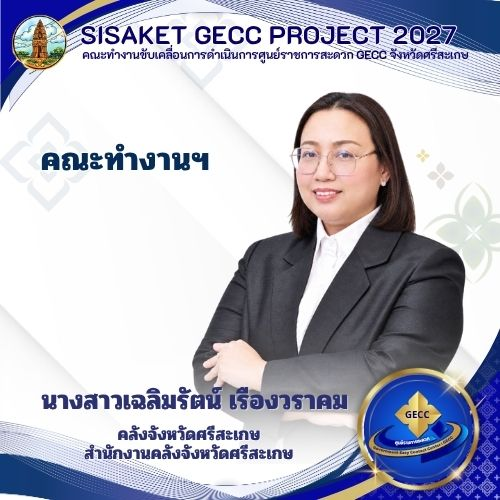
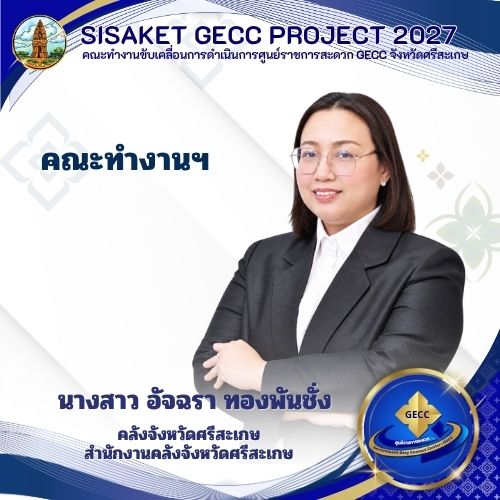
Update committee member 8 photo to นางสาวอัจฉรา ทองพันชั่ง

diff --git a/index.html b/index.html
@@ -3052,7 +3052,7 @@ const COMMITTEE_MEMBERS = [
   {
     "role": "คณะทำงาน",
     "title": "คลังจังหวัดศรีสะเกษ",
-    "photo": "assets/images/committee-08.jpg"
+    "photo": "assets/images/committee-08.jpg?v=2570b"
   },
   {
     "role": "คณะทำงาน",
